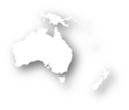
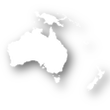
Optimization - force size of continent images to fixed 110x110 pixels

diff --git a/themes/default/templates/home.php b/themes/default/templates/home.php
@@ -44,7 +44,7 @@
                                         $value = $self->context->dictionary->getKeywordFromValue($item, $key);
                                         if (!empty($value)) {
                                         ?>
-                                <a href="<?php echo $self->context->baseUrl . 'api/collections/search.html?q=' . urlencode(RestoUtil::quoteIfNeeded($value)) . '&lang=' . $self->context->dictionary->language ?>"><span style="white-space:nowrap;"><img src="<?php echo $self->context->baseUrl . 'themes/default/img/world/' . str_replace(' ', '', $item) . '.png'; ?>"/><?php echo '(' . $count . ')'; ?></a></span>
+                                <a href="<?php echo $self->context->baseUrl . 'api/collections/search.html?q=' . urlencode(RestoUtil::quoteIfNeeded($value)) . '&lang=' . $self->context->dictionary->language ?>"><span style="white-space:nowrap;"><img width="110px" height="110px" src="<?php echo $self->context->baseUrl . 'themes/default/img/world/' . str_replace(' ', '', $item) . '.png'; ?>"/><?php echo '(' . $count . ')'; ?></a></span>
                                 <?php }} ?>
                             </h4>
                             <?php } else { ?>
